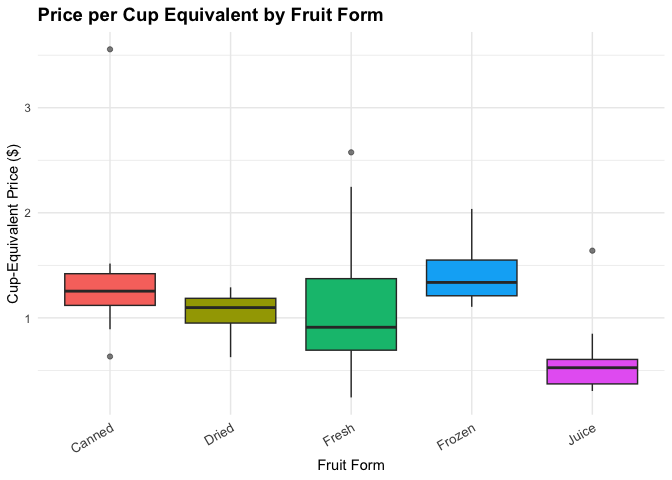
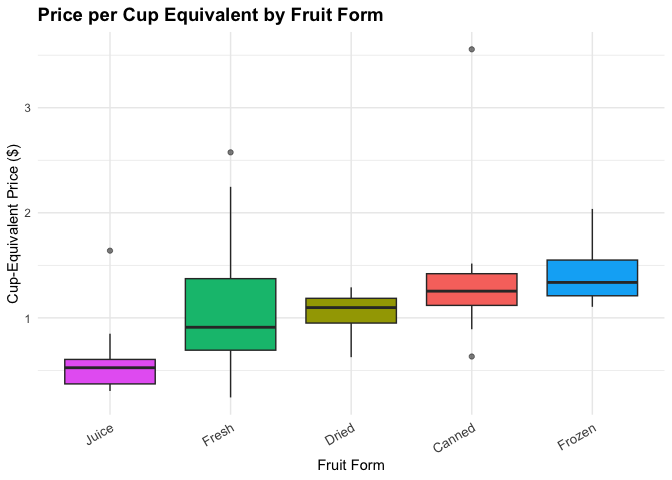
deleted box plot

diff --git a/README.md b/README.md
@@ -328,16 +328,18 @@ Our graph confirms that, based on the average price per cup equivalent,
 watermelon is the cheapest fruit at only \$0.24, while cherries are the
 most expensive at \$2.64.
 
-Watermelon’s low cost makes sense because it is grown in large
-quantities, has a high water content, and is relatively inexpensive to
-harvest and transport during peak season. In contrast, cherries are
-labor intensive to grow and pick, have a short harvest window, and
+Watermelon’s low cost stems from large-scale production, high water
+content, and relatively inexpensive harvesting and transportation during
+peak season. Many common fruits—such as apples and bananas—also fall
+toward the lower end of the price range. In contrast, cherries are
+labor-intensive to grow and pick, have a short harvest window, and
 require careful handling to avoid bruising, all of which raise their
-price. Additionally, cherries are often more sensitive to weather and
-have higher risks of crop loss, further increasing costs. These
-differences in production, labor demands, and seasonal availability help
-explain why watermelon remains the most affordable fruit per cup
-equivalent, while cherries are the most expensive.
+price. Their sensitivity to weather and high risk of crop loss further
+drives up cost. Similarly, berries like blackberries and raspberries
+tend to rank among the most expensive fruits. These differences in
+production scale, labor demands, and seasonal constraints explain why
+watermelon remains the most affordable fruit per cup equivalent, while
+cherries are the most expensive.
 
 If we want to further examine the breakdown of different fruit forms,
 the graph below shows each form for all fruits.
@@ -426,7 +428,8 @@ this pattern for analysis.
 
 ``` r
 # Boxplot comparing price distributions across forms
-ggplot(clean, aes(x = Form, y = CupEquivalentPrice, fill = Form)) +
+ggplot(clean, aes(x = reorder(Form, CupEquivalentPrice, FUN = median),
+                  y = CupEquivalentPrice, fill = Form)) +
   geom_boxplot(outlier.alpha = 0.6) +
   labs(
     title = "Price per Cup Equivalent by Fruit Form",
@@ -621,27 +624,6 @@ likely reflects specialty, imported, or out-of-season options. This
 distribution indicates that while most fruits are generally affordable,
 access to higher-variety or premium fruits comes at a steeper cost,
 creating meaningful differences in affordability across types.
-
-``` r
-ggplot(clean, aes(x = Fruit, y = CupEquivalentPrice)) +
-  geom_boxplot() +
-  coord_flip() +
-  theme(axis.text.y = element_text(size = 11))
-```
-
-![](README_files/figure-gfm/unnamed-chunk-19-1.png)<!-- -->
-
-The box plots reveal substantial variation in cup-equivalent prices
-across fruit types. Berries such as blackberries and raspberries tend to
-be among the most expensive fruits, showing both higher median prices
-and wider spreads. In contrast, many common fruits including apples,
-bananas, and melons cluster at the lower end of the price range,
-indicating greater affordability and more stable pricing. Some processed
-or packaged fruit categories, such as cherries packed in syrup or water,
-display noticeable outliers, suggesting that preparation method can
-increase price variability. Overall, the box plots show clear price
-differences across fruit types, with certain fruits exhibiting both
-higher costs and greater variation than others.
 
 Together, these statistics and visualizations indicate that price per
 cup varies considerably across fruit types, which could affect consumer
